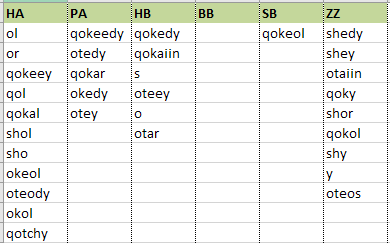
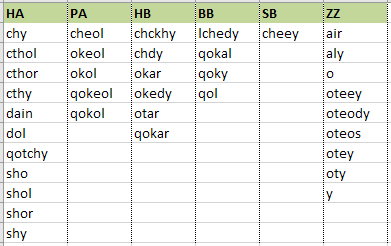
Fixed

Changed region(s): [[0.0, 0.0, 1.0, 1.0]]

diff --git a/docs/004/index.md b/docs/004/index.md
@@ -3,10 +3,10 @@
 _Last updated Sep. 9th, 2021._
 
 _This note refers to [release v.4.0.0](https://github.com/mzattera/v4j/tree/v.4.0.0) of v4j;
-**links to classes and files refer to this release** and files might have been deleted or removed in the current master branch.
+**links to classes and files refer to this release** and files might have been changed, deleted or moved in the current master branch.
 In addition, some of this note content might have become obsolete in more recent versions of the library._
 
-_Working notes are not providing detailed description of algorithms and classes used, for this, please refer to the 
+_Working notes are not providing detailed description of algorithms and classes used; for this, please refer to the 
 library code and JavaDoc._
 
 [**<< Home**](..)
@@ -20,14 +20,23 @@ finds top 20 most used terms for each cluster defined in [Note 003](../003) and 
 An Excel file ("`MostUsedTerms.xlsx`") containing this data can be found under the
 [analysis folder](https://github.com/mzattera/v4j/tree/master/resources/analysis).
 
-The below table summarizes the results.
+The below table summarizes the results, showing, the relative frequency of terms in each cluster.
 
 ![Most used terms](images/Terms.PNG)
 
-As expected from cluster analysis, beside terms that appear frequently in all clusters (such as **daiin**, **dar**, **dy**, **ol**, **or**),
+As expected from cluster analysis, beside terms that appear frequently in all clusters (such as **chey**, **daiin**, **dar**, and **dy**),
 there are terms characteristic of a single cluster; the table below shows them.
 
 ![Most used terms](images/Unique.PNG)
+
+It might be interesting to note that:
+
+- Most common terms in Herbal A pages (HA cluster) starts with ch- or sh-; the latter prefix appearing only here,
+
+- Pharmaceutical (PA cluster) common terms end in -ol, which is rare for other clusters. Also they seem to prefer the ok- or qok- prefix.
+
+- Zodiac (ZZ cluster) common terms mostly start with ot-, uncommon for other clusters. Moreover this cluster
+features single characters as common terms.
 
 ---
 

diff --git a/docs/001/index.md b/docs/001/index.md
@@ -3,10 +3,10 @@
 _Last updated Sep. 6th, 2021._
 
 _This note refers to [release v.1.0.0](https://github.com/mzattera/v4j/tree/v.1.0.0) of v4j;
-**links to classes and files refer to this release** and files might have been deleted or removed in the current master branch.
+**links to classes and files refer to this release** and files might have been changed, deleted or moved in the current master branch.
 In addition, some of this note content might have become obsolete in more recent versions of the library._
 
-_Working notes are not providing detailed description of algorithms and classes used, for this, please refer to the 
+_Working notes are not providing detailed description of algorithms and classes used; for this, please refer to the 
 library code and JavaDoc._
 
 [**<< Home**](..)

diff --git a/docs/002/index.md b/docs/002/index.md
@@ -3,10 +3,10 @@
 _Last updated Sep. 6th, 2021._
 
 _This note refers to [release v.2.0.0](https://github.com/mzattera/v4j/tree/v.2.0.0) of v4j;
-**links to classes and files refer to this release** and files might have been deleted or removed in the current master branch.
+**links to classes and files refer to this release** and files might have been changed, deleted or moved in the current master branch.
 In addition, some of this note content might have become obsolete in more recent versions of the library._
 
-_Working notes are not providing detailed description of algorithms and classes used, for this, please refer to the 
+_Working notes are not providing detailed description of algorithms and classes used; for this, please refer to the 
 library code and JavaDoc._
 
 [**<< Home**](..)

diff --git a/docs/003/index.md b/docs/003/index.md
@@ -3,10 +3,10 @@
 _Last updated Sep. 9th, 2021._
 
 _This note refers to [release v.3.0.0](https://github.com/mzattera/v4j/tree/v.3.0.0) of v4j;
-**links to classes and files refer to this release** and files might have been deleted or removed in the current master branch.
+**links to classes and files refer to this release** and files might have been changed, deleted or moved in the current master branch.
 In addition, some of this note content might have become obsolete in more recent versions of the library._
 
-_Working notes are not providing detailed description of algorithms and classes used, for this, please refer to the 
+_Working notes are not providing detailed description of algorithms and classes used; for this, please refer to the 
 library code and JavaDoc._
 
 [**<< Home**](..)
